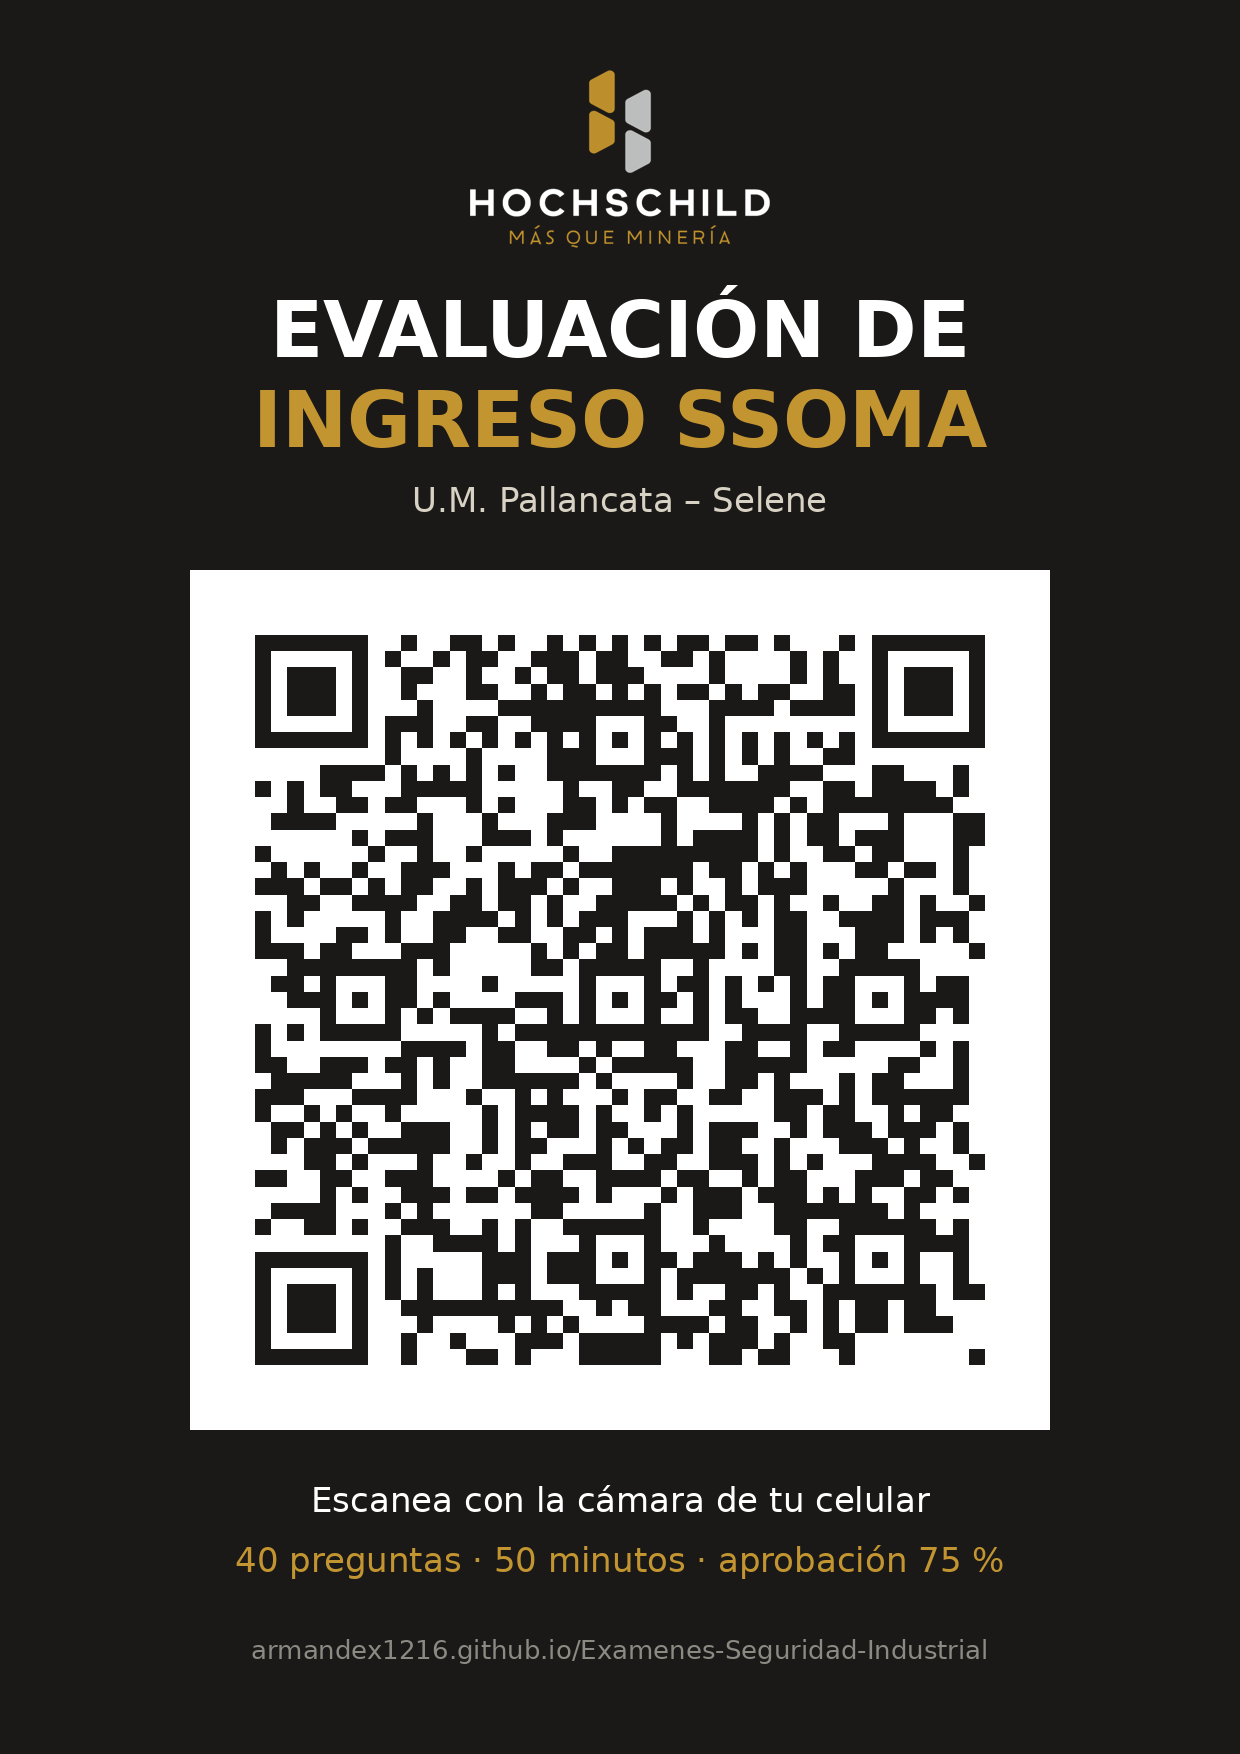
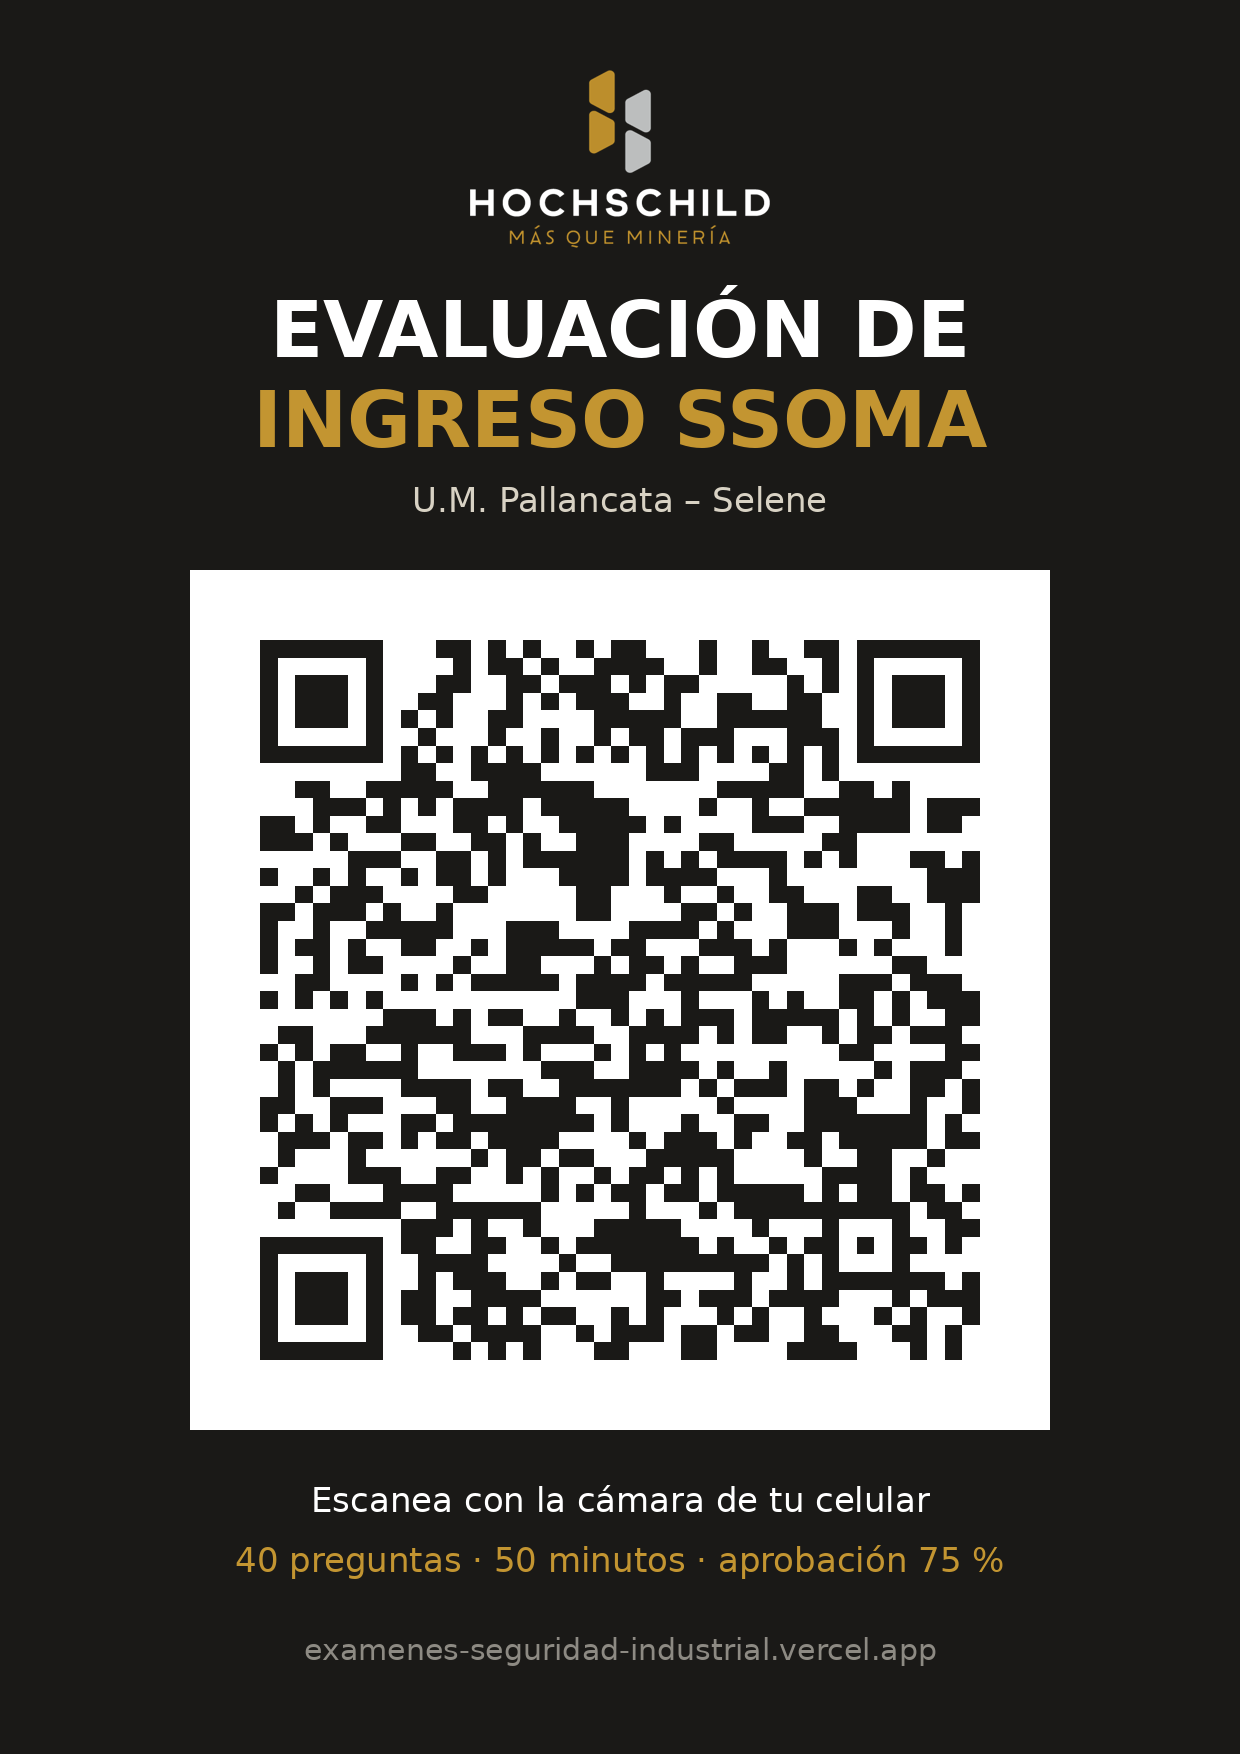
Firma robusta en celulares y QR con dirección de Vercel
Claude-Session: https://claude.ai/code/session_015KTc8cU89hEfoyNiYWFKH3

Changed region(s): [[0.1839, 0.3387, 0.7968, 0.8005], [0.2452, 0.9236, 0.7968, 0.9544]]

diff --git a/js/examen.js b/js/examen.js
@@ -246,20 +246,30 @@
     $("#rCod").textContent = cod;
     $("#rVerC").href = "?c=" + encodeURIComponent(cod);
   }
-  let trazos = 0;
+  let trazos = 0, sigX = null;
   function initFirma() {
-    const cv = $("#sig"), box = cv.parentElement, dpr = Math.max(1, window.devicePixelRatio || 1);
-    cv.width = box.clientWidth * dpr; cv.height = box.clientHeight * dpr;
-    const x = cv.getContext("2d"); x.scale(dpr, dpr); x.lineWidth = 2.6; x.lineCap = "round"; x.lineJoin = "round"; x.strokeStyle = "#0b2a6b";
-    let dib = false, lp = null; trazos = 0;
+    const cv = $("#sig"), box = cv.parentElement;
+    const medir = () => {
+      const dpr = Math.max(1, window.devicePixelRatio || 1), w = box.clientWidth, h = box.clientHeight;
+      if (!w || !h) return false;
+      if (cv.width === Math.round(w * dpr) && sigX) return true;
+      cv.width = Math.round(w * dpr); cv.height = Math.round(h * dpr);
+      sigX = cv.getContext("2d"); sigX.setTransform(dpr, 0, 0, dpr, 0, 0);
+      sigX.lineWidth = 2.6; sigX.lineCap = "round"; sigX.lineJoin = "round"; sigX.strokeStyle = "#0b2a6b";
+      trazos = 0; $("#sigPh").style.display = ""; return true;
+    };
+    if (!medir()) { let n = 0; const t = setInterval(() => { if (medir() || ++n > 50) clearInterval(t); }, 150); }
+    window.addEventListener("resize", () => { if (!trazos) { sigX = null; medir(); } });
+    let dib = false, lp = null;
     const pos = e => { const r = cv.getBoundingClientRect(); return [e.clientX - r.left, e.clientY - r.top]; };
-    cv.onpointerdown = e => { dib = true; lp = pos(e); cv.setPointerCapture(e.pointerId); $("#sigPh").style.display = "none"; };
-    cv.onpointermove = e => { if (!dib) return; const p = pos(e); x.beginPath(); x.moveTo(...lp); x.lineTo(...p); x.stroke(); lp = p; trazos++; };
-    cv.onpointerup = cv.onpointercancel = () => dib = false;
-    $("#sigClear").onclick = () => { x.clearRect(0, 0, cv.width, cv.height); trazos = 0; $("#sigPh").style.display = ""; };
+    cv.onpointerdown = e => { if (!medir()) return; dib = true; lp = pos(e); try { cv.setPointerCapture(e.pointerId); } catch (er) {} $("#sigPh").style.display = "none"; e.preventDefault(); };
+    cv.onpointermove = e => { if (!dib || !sigX) return; const p = pos(e); sigX.beginPath(); sigX.moveTo(...lp); sigX.lineTo(...p); sigX.stroke(); lp = p; trazos++; e.preventDefault(); };
+    cv.onpointerup = cv.onpointercancel = cv.onpointerleave = () => dib = false;
+    $("#sigClear").onclick = () => { if (sigX) sigX.clearRect(0, 0, cv.width, cv.height); trazos = 0; $("#sigPh").style.display = ""; };
   }
   $("#sigOk").onclick = async () => {
     if (trazos < 15) return toast("Dibuja tu firma en el recuadro", "err");
+    if (!$("#sig").width) return toast("Vuelve a dibujar tu firma", "err");
     const cv = $("#sig"), o = document.createElement("canvas"); o.width = 420; o.height = Math.round(420 * cv.height / cv.width);
     const ox = o.getContext("2d"); ox.drawImage(cv, 0, 0, o.width, o.height);
     const b = $("#sigOk"); b.disabled = true; b.innerHTML = `<span class="spin"></span>`;
